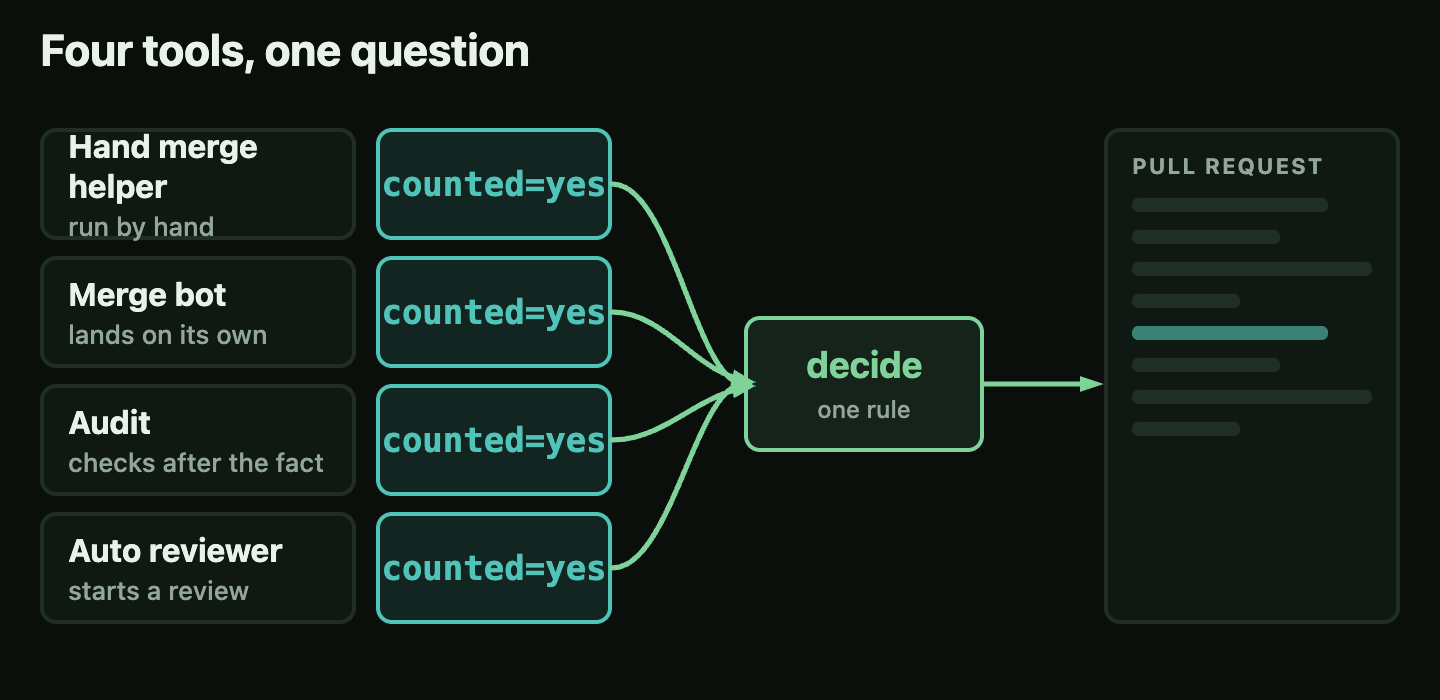
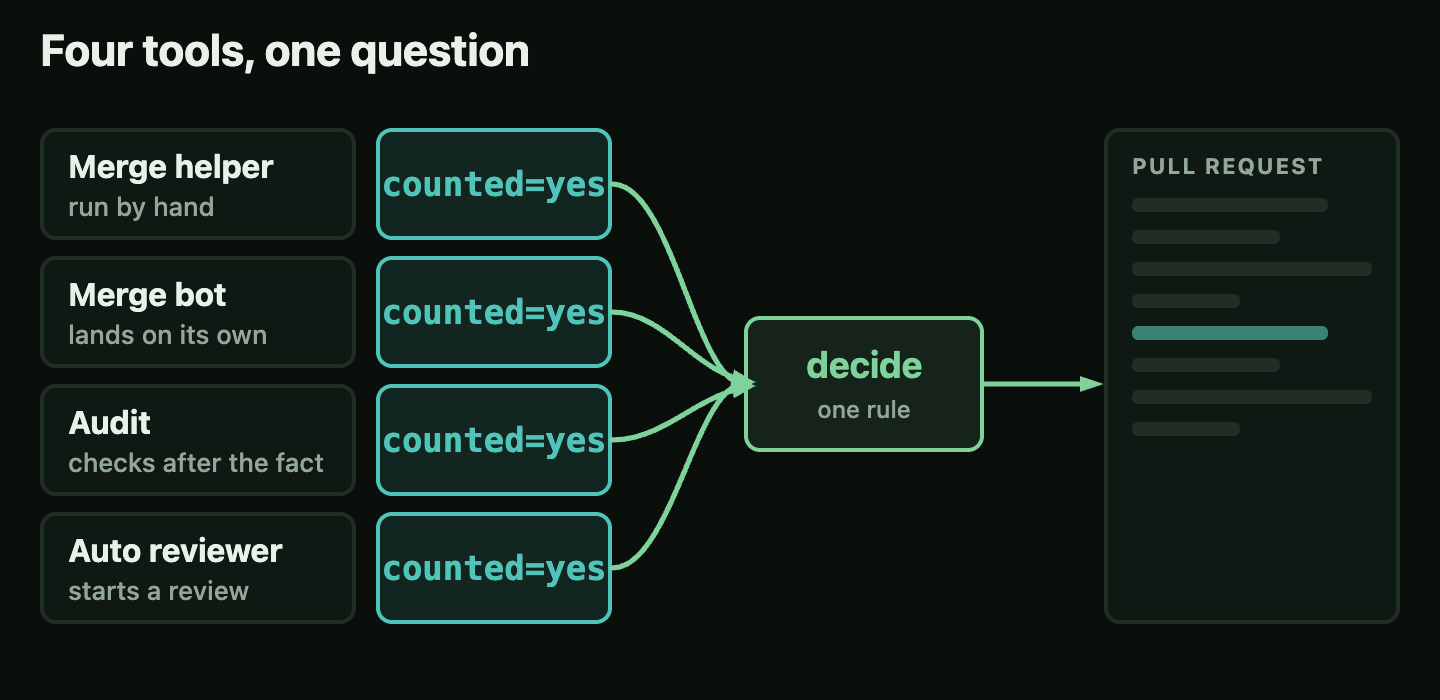
Fix fig1/fig3 labels, fig3 subtitle, alt text

Changed region(s): [[0.0312, 0.18, 0.1875, 0.36]]

diff --git a/content/posts/one-rule-eight-copies.md b/content/posts/one-rule-eight-copies.md
@@ -8,7 +8,7 @@ tags = ['automation', 'ops', 'code review', 'Build log']
 topics = ['Tech', 'AI and Agents']
 [cover]
 image = "/images/posts/one-rule-eight-copies-cover.png"
-alt = "Eight rubber-stamp marks on one sheet of paper, meant to match, each slightly different."
+alt = "Eight gold check badges in two columns on a dark background, meant to be identical, each slightly different: one thinner, one offset, one faded, one doubled."
 caption = "Same question, eight answers."
 +++
 
@@ -55,7 +55,7 @@ The first version of the decider merged on a Saturday morning, and a second revi
 
 The follow-up landed about an hour and a half after the first one, with the test count going from 133 to 137. None of these are parser bugs in the usual sense. Each one is a case where the code answered a slightly different question than the one being asked: approved at some point, rather than approved at this commit, as it stood, by a review that's still in force.
 
-![A pull request timeline. A counted SHIP lands at commit A. Four events follow in order: the comment is edited, the change turns out to be docs-only, the review is dismissed, and a new commit B is pushed. Each one turns the answer to unsure, no, no and unsure.](/images/posts/one-rule-eight-copies-fig3.png)
+![A pull request timeline. A counted SHIP lands at commit A. Four separate cases follow, each checked on its own: the comment is edited later, a docs-only change passes with no review, the review is dismissed, and a new commit B is pushed. The answers are unsure, no, no and unsure.](/images/posts/one-rule-eight-copies-fig3.png)
 
 *Approved at this commit, as it stood, by a review that's still in force. Each event breaks one of those three.*
 
